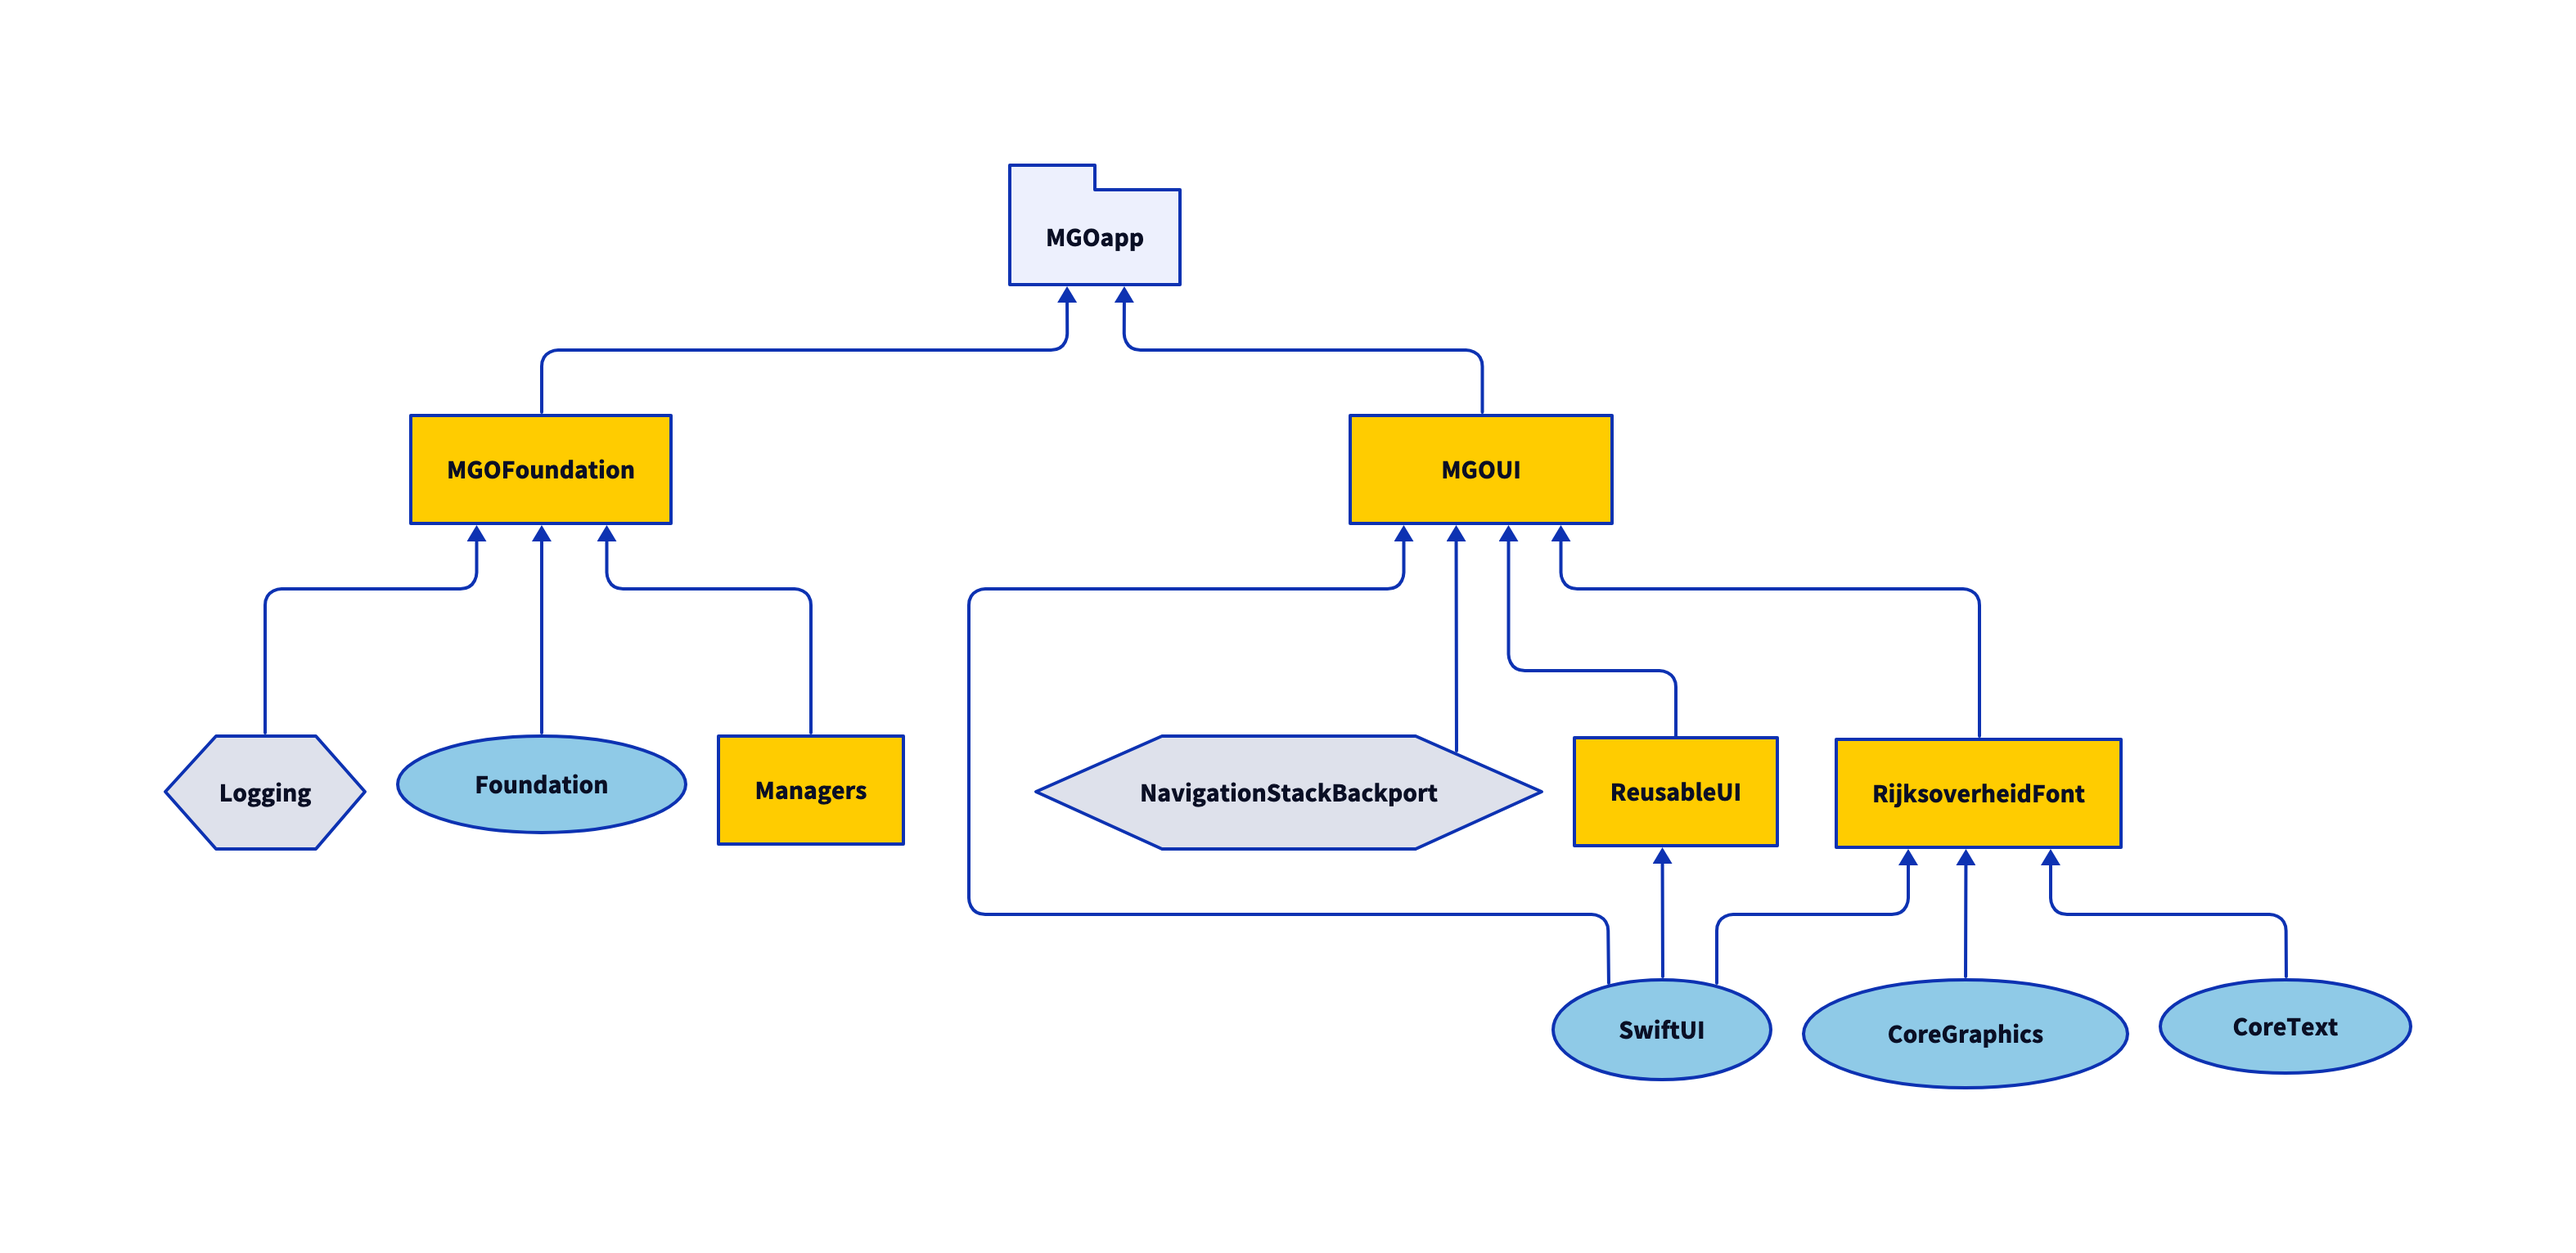
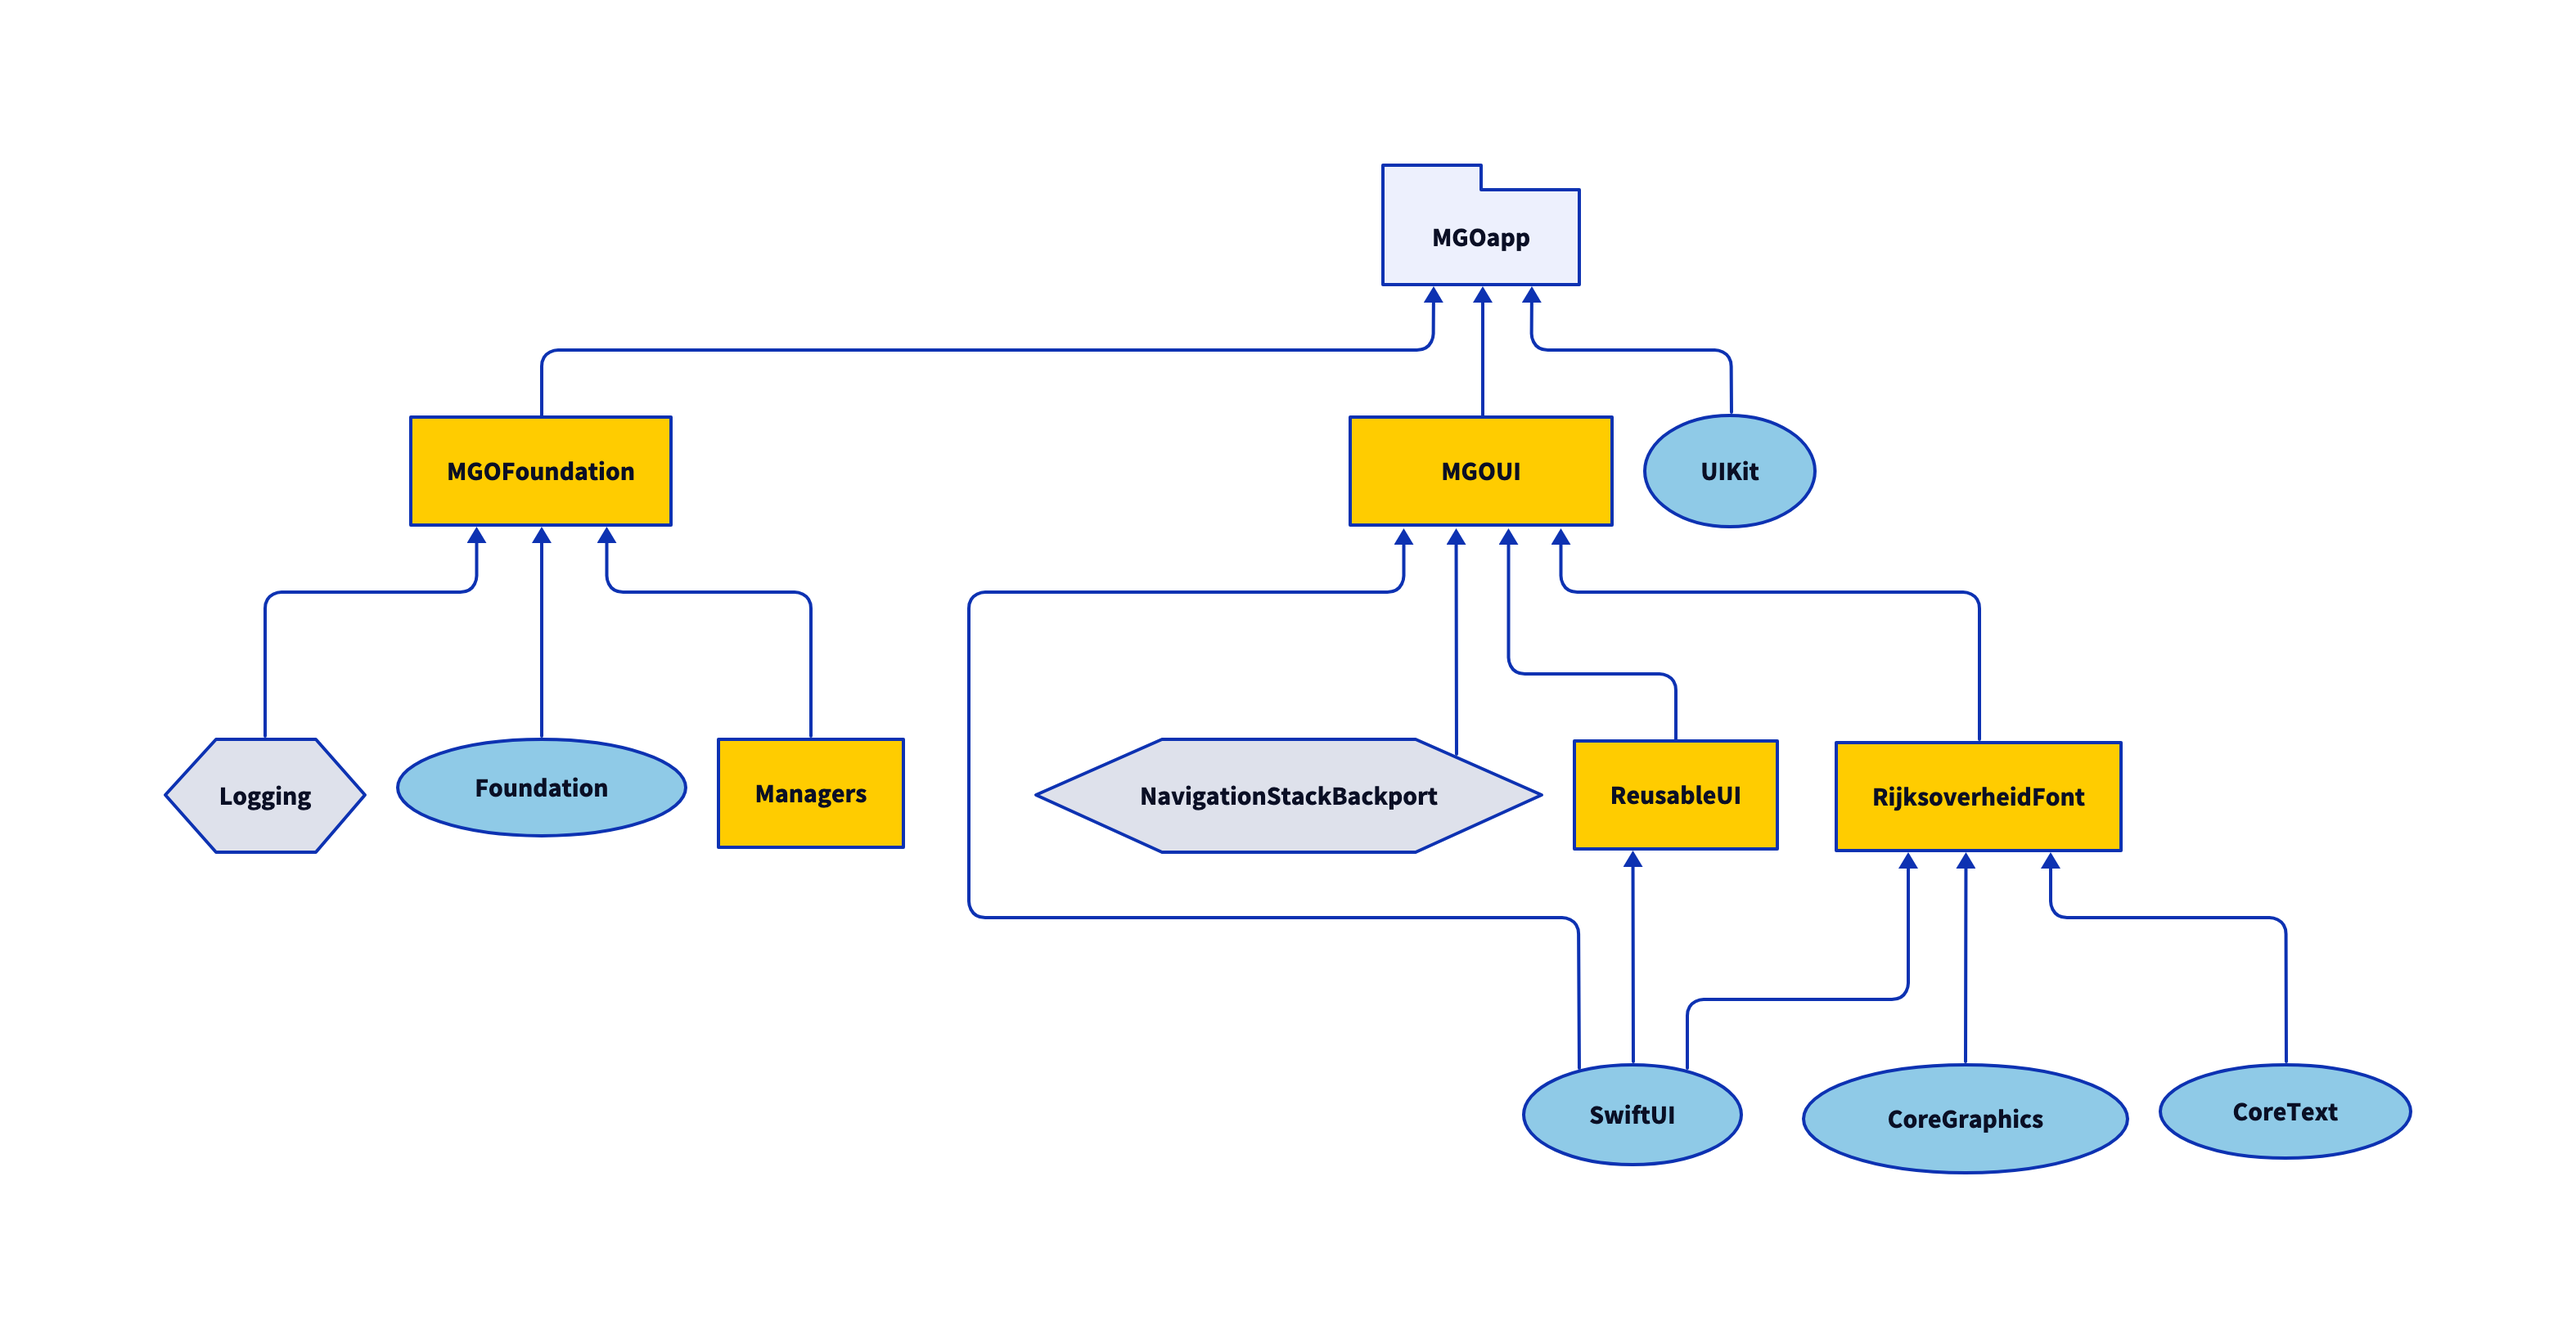
refactor: moved scrollview bounce setting to appDelegate

diff --git a/Sources/MGO/Common/ScrollViewWithFixedBottom.swift b/Sources/MGO/Common/ScrollViewWithFixedBottom.swift
@@ -24,21 +24,19 @@ struct ScrollViewWithFixedBottom<V1: View, V2: View>: View {
 			
 			ScrollView(shouldScroll ? [.vertical] : []) {
 				content.readSize($contentSize)
-//					.padding(.bottom, 50)
 			}
 			.readSize($scrollViewSize)
 			
 			bottomView
+				// Change the background color of the bottom view if we should scroll
 				.background(shouldScroll ? Color.Styleguide.white : Color.Styleguide.background)
-				.if(shouldScroll, transform: { view in
+				// Only apply the shadow if we should scroll
+				.if(shouldScroll) { view in
 					view
 						.shadow(color: Color.Styleguide.black.opacity(0.05), radius: 7, x: 0, y: -6)
 						.shadow(color: Color.Styleguide.black.opacity(0.06), radius: 3, x: 0, y: 0)
-				})
+				}
 		}
-		.onAppear(perform: {
-				 UIScrollView.appearance().bounces = false
-		})
 	}
 	
 	private var shouldScroll: Bool {

diff --git a/Sources/MGO/Core/AppDelegate.swift b/Sources/MGO/Core/AppDelegate.swift
@@ -1,0 +1,18 @@
+/*
+ *  Copyright (c) 2024 De Staat der Nederlanden, Ministerie van Volksgezondheid, Welzijn en Sport.
+ *  Licensed under the EUROPEAN UNION PUBLIC LICENCE v. 1.2
+ *
+ *  SPDX-License-Identifier: EUPL-1.2
+ */
+
+import UIKit
+
+class AppDelegate: NSObject, UIApplicationDelegate {
+	func application(_ application: UIApplication, didFinishLaunchingWithOptions launchOptions: [UIApplication.LaunchOptionsKey: Any]? = nil) -> Bool {
+		
+		// UI Settings
+		UIScrollView.appearance().bounces = false
+
+		return true
+	}
+}

diff --git a/Sources/MGO/Core/MDRFApp.swift b/Sources/MGO/Core/MDRFApp.swift
@@ -29,6 +29,7 @@ struct MainEntryPoint {
 }
 
 struct ProductionApp: App {
+	@UIApplicationDelegateAdaptor(AppDelegate.self) var appDelegate
 	
 	var body: some Scene {
 		WindowGroup {
